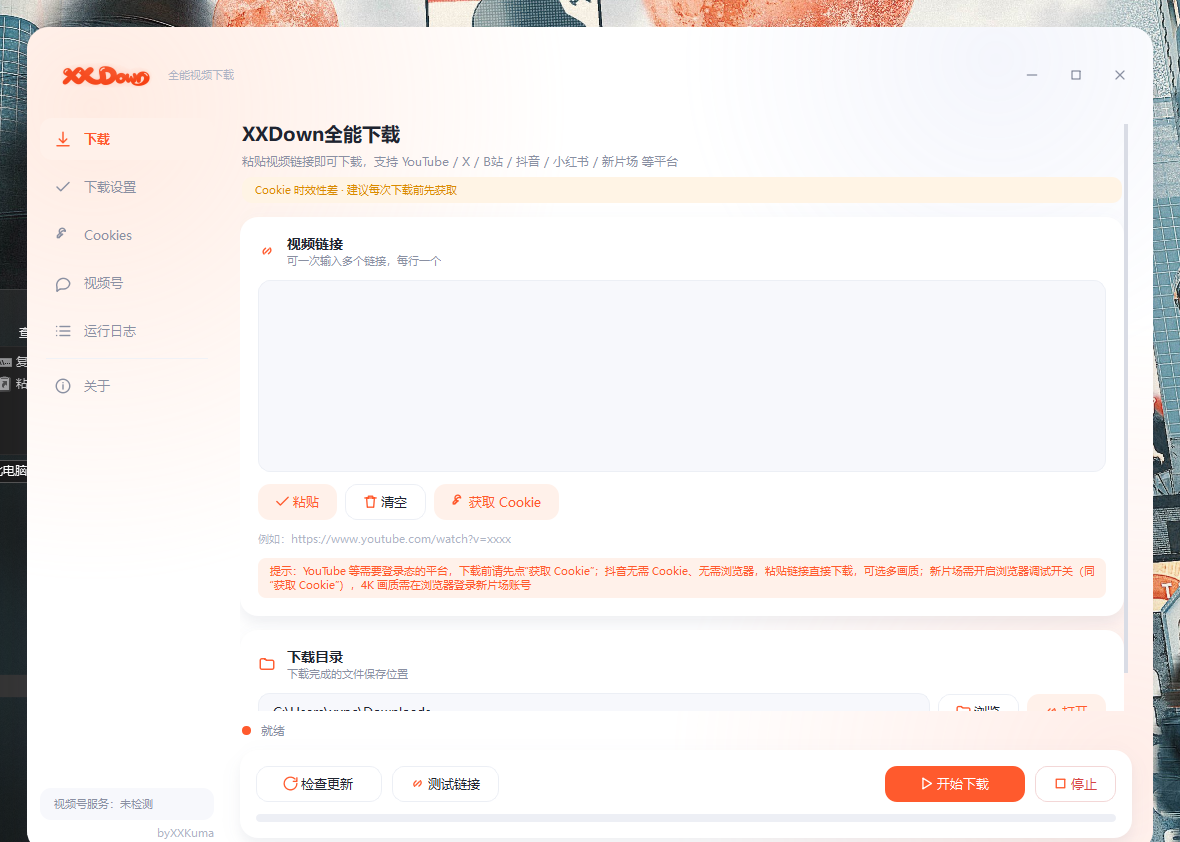
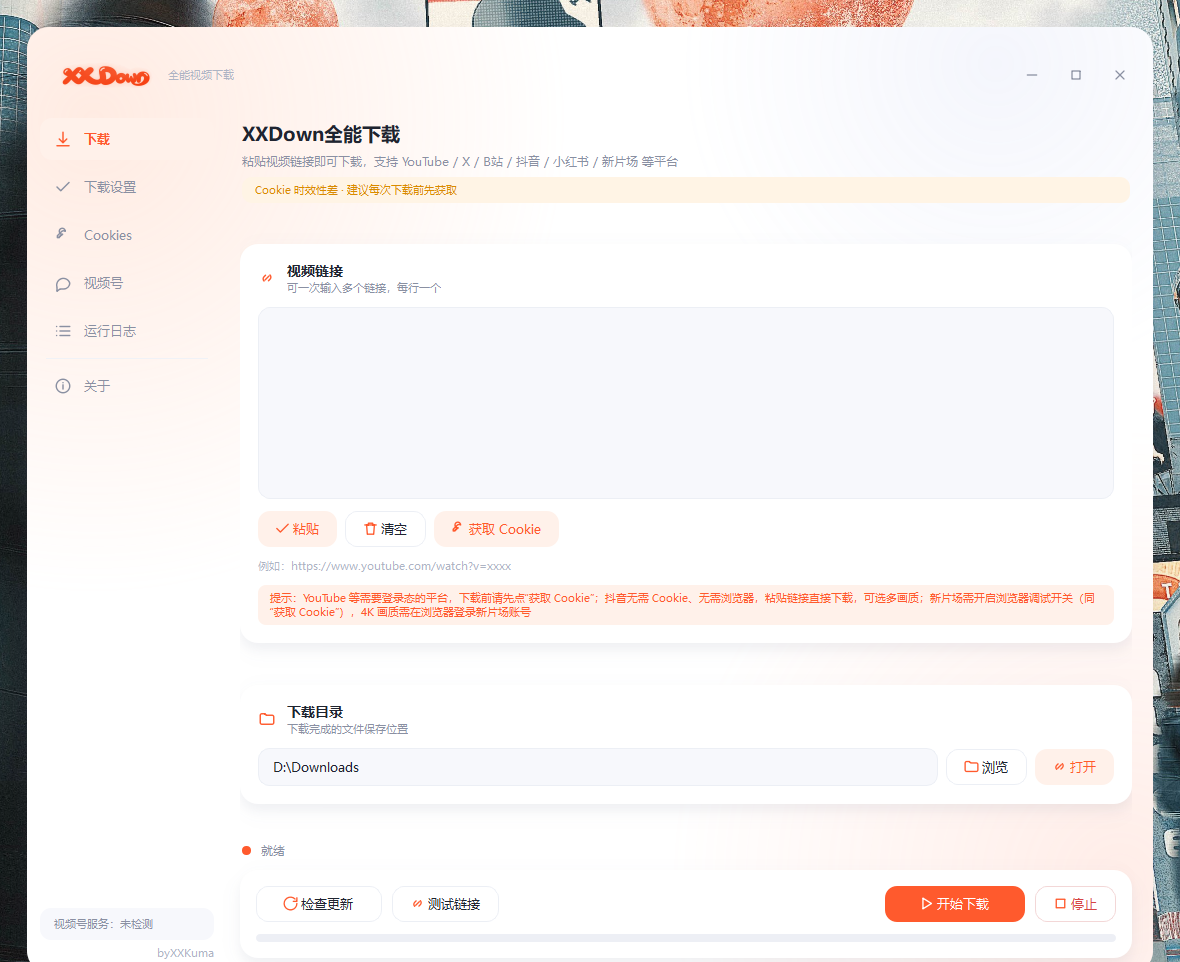
Docs: add English README and manual, settings page screenshot

diff --git a/README_EN.md b/README_EN.md
@@ -1,0 +1,110 @@
+# XX Down — All-in-one Video Downloader
+
+A Windows desktop video downloader built on the open-source project [yt-dlp](https://github.com/yt-dlp/yt-dlp).
+Double-click and go — no environment setup required.
+
+[中文版 README](README.md)
+
+![Main window](docs/screenshot.png)
+![Download settings](docs/screenshot_settings.png)
+
+## Features
+
+- **Multi-platform**: Douyin (no login, multiple qualities), Xinpianchang, WeChat Channels, Xiaohongshu, YouTube, Bilibili, X (Twitter), and more
+- **Quality selection**: Best / 8K / 4K / 2K / 1080p / 720p / 480p / 360p / audio only; audio quality 320K ~ 64K
+- **Subtitles & thumbnails**: automatic subtitle download (convertible to .srt), thumbnail download
+- **One-click yt-dlp update**: always use the latest extraction capabilities
+- **One-click Cookies**: connects directly to a running Chrome/Edge (official autoConnect) to export login state
+- **WeChat Channels**: reuses the open-source engine [ltaoo/wx_channels_download](https://github.com/ltaoo/wx_channels_download), auto-downloaded on first use
+- **System notifications**: Windows notifications on download success / failure (shown as XX Down itself)
+- **Filename templates**: customizable yt-dlp output template
+
+## Architecture
+
+```
+XX Down.exe (C launcher, compiled with MinGW)
+    └── python/pythonw.exe (official CPython 3.13 embeddable, Microsoft-signed)
+            └── ytdlp_gui.py (PySide6 GUI + yt-dlp/ffmpeg orchestration)
+```
+
+- The launcher is a small C program: it starts the bundled runtime and sends
+  Windows notifications on its behalf (the notification identity is the launcher
+  itself, not the Python process)
+- Why not PyInstaller: 360 AV's heuristic rule (Trojan/Python.ShellLoader.am)
+  quarantines PyInstaller builds of this app; the combination of the official
+  signed CPython runtime + a small C launcher does not trigger the false positive
+- Douyin: talks to Douyin's official web API directly (no login, no browser)
+- Xinpianchang: opens the video page in a real browser, reads `__NEXT_DATA__`
+  plus session cookies, then requests the CDN direct link (4K requires login)
+
+## Repository layout
+
+```
+XX-Down/
+├── ytdlp_gui.py          main program (PySide6 GUI + download orchestration)
+├── launcher.c            C launcher source (compiled to XX Down.exe at build time)
+├── 使用说明.txt          user manual (Chinese)
+├── 使用说明_EN.txt       user manual (English)
+├── docs/
+│   ├── screenshot.png            main window screenshot
+│   └── screenshot_settings.png   download settings screenshot
+└── build/
+    ├── build_exe.py      build script (assembles runtime + smoke test)
+    ├── installer.iss     Inno Setup 6 installer script
+    ├── ChineseSimplified.isl
+    └── xlogo4.ico        app icon
+```
+
+## Building (Windows x64)
+
+### 1. Toolchain
+
+- [LLVM MinGW](https://github.com/mstorsjo/llvm-mingw) (provides gcc / windres):
+  `winget install MartinStorsjo.LLVM-MinGW.UCRT`
+- [Inno Setup 6](https://jrsoftware.org/isinfo.php) (installer packaging)
+
+### 2. Third-party dependencies (place in `vendor/`, not committed)
+
+| Dependency | How to obtain |
+| --- | --- |
+| `vendor/python-3.13.11-embed-amd64.zip` | [python.org](https://www.python.org/ftp/python/3.13.11/python-3.13.11-embed-amd64.zip) |
+| `vendor/pyside/` (PySide6 6.11.2 + shiboken6) | `pip download PySide6-Essentials==6.11.2 shiboken6==6.11.2 --no-deps -d tmp`, unpack the two wheels into `vendor/pyside/` |
+| `vendor/site-packages/` (pywin32 311 / win10toast 0.9 / setuptools 80.10.2) | `pip download pywin32==311 win10toast==0.9 setuptools==80.10.2 --no-deps -d tmp`, unpack the wheel contents into `vendor/site-packages/` |
+| `vendor/bin/yt-dlp.exe` | [yt-dlp releases](https://github.com/yt-dlp/yt-dlp/releases) |
+| `vendor/bin/ffmpeg.exe`, `ffprobe.exe` | [gyan.dev ffmpeg builds](https://www.gyan.dev/ffmpeg/builds/) (essentials) |
+| `vendor/bin/deno.exe` | [deno releases](https://github.com/denoland/deno/releases) |
+
+### 3. Build
+
+```powershell
+python build\build_exe.py        # assembles XX Down.exe + python\ + .install\ (with smoke test)
+& "C:\Program Files (x86)\Inno Setup 6\ISCC.exe" build\installer.iss
+# output: XX Down_安装包_v1.5.exe
+```
+
+## Third-party dependencies & credits
+
+| Component | License | Purpose |
+| --- | --- | --- |
+| [yt-dlp](https://github.com/yt-dlp/yt-dlp) | BSD-3-Clause | download engine |
+| [ffmpeg](https://ffmpeg.org) | LGPL-2.1 / GPL-3.0 | audio/video muxing / conversion |
+| [PySide6](https://www.qt.io) | LGPL-3.0 / commercial | GUI |
+| [CPython](https://www.python.org) | PSF | bundled runtime |
+| [pywin32](https://github.com/mhammond/pywin32) | PSF | Windows API |
+| [win10toast](https://github.com/calclavia/win10toast) | see upstream | notifications in dev mode |
+| [ltaoo/wx_channels_download](https://github.com/ltaoo/wx_channels_download) | see upstream | WeChat Channels engine |
+| [Inno Setup](https://jrsoftware.org) | Freeware (non-commercial) | installer |
+
+## Disclaimer
+
+- This project is for personal learning and personal backup use only. Please respect content copyright and each platform's terms of service.
+- Do not use downloaded content for commercial distribution.
+- The user is solely responsible for any disputes arising from the use of this software.
+
+## License
+
+This project is open-sourced under the [MIT License](LICENSE).
+
+## Author
+
+byXXKuma

diff --git a/README.md b/README.md
@@ -3,7 +3,10 @@
 基于开源项目 [yt-dlp](https://github.com/yt-dlp/yt-dlp) 打造的 Windows 桌面视频下载器，
 双击即用，无需安装任何环境。
 
+[English README](README_EN.md)
+
 ![界面截图](docs/screenshot.png)
+![下载设置页](docs/screenshot_settings.png)
 
 ## 功能特性
 
@@ -39,9 +42,11 @@ XX Down.exe（C 启动器，MinGW 编译）
 XX-Down/
 ├── ytdlp_gui.py          主程序（PySide6 GUI + 下载调度）
 ├── launcher.c            C 启动器源码（构建时编译为 XX Down.exe）
-├── 使用说明.txt          用户手册
+├── 使用说明.txt          用户手册（中文）
+├── 使用说明_EN.txt       用户手册（英文）
 ├── docs/
-│   └── screenshot.png    界面截图
+│   ├── screenshot.png            界面截图
+│   └── screenshot_settings.png   下载设置页截图
 └── build/
     ├── build_exe.py      构建脚本（组装运行时 + 冒烟测试）
     ├── installer.iss     Inno Setup 6 安装包脚本
